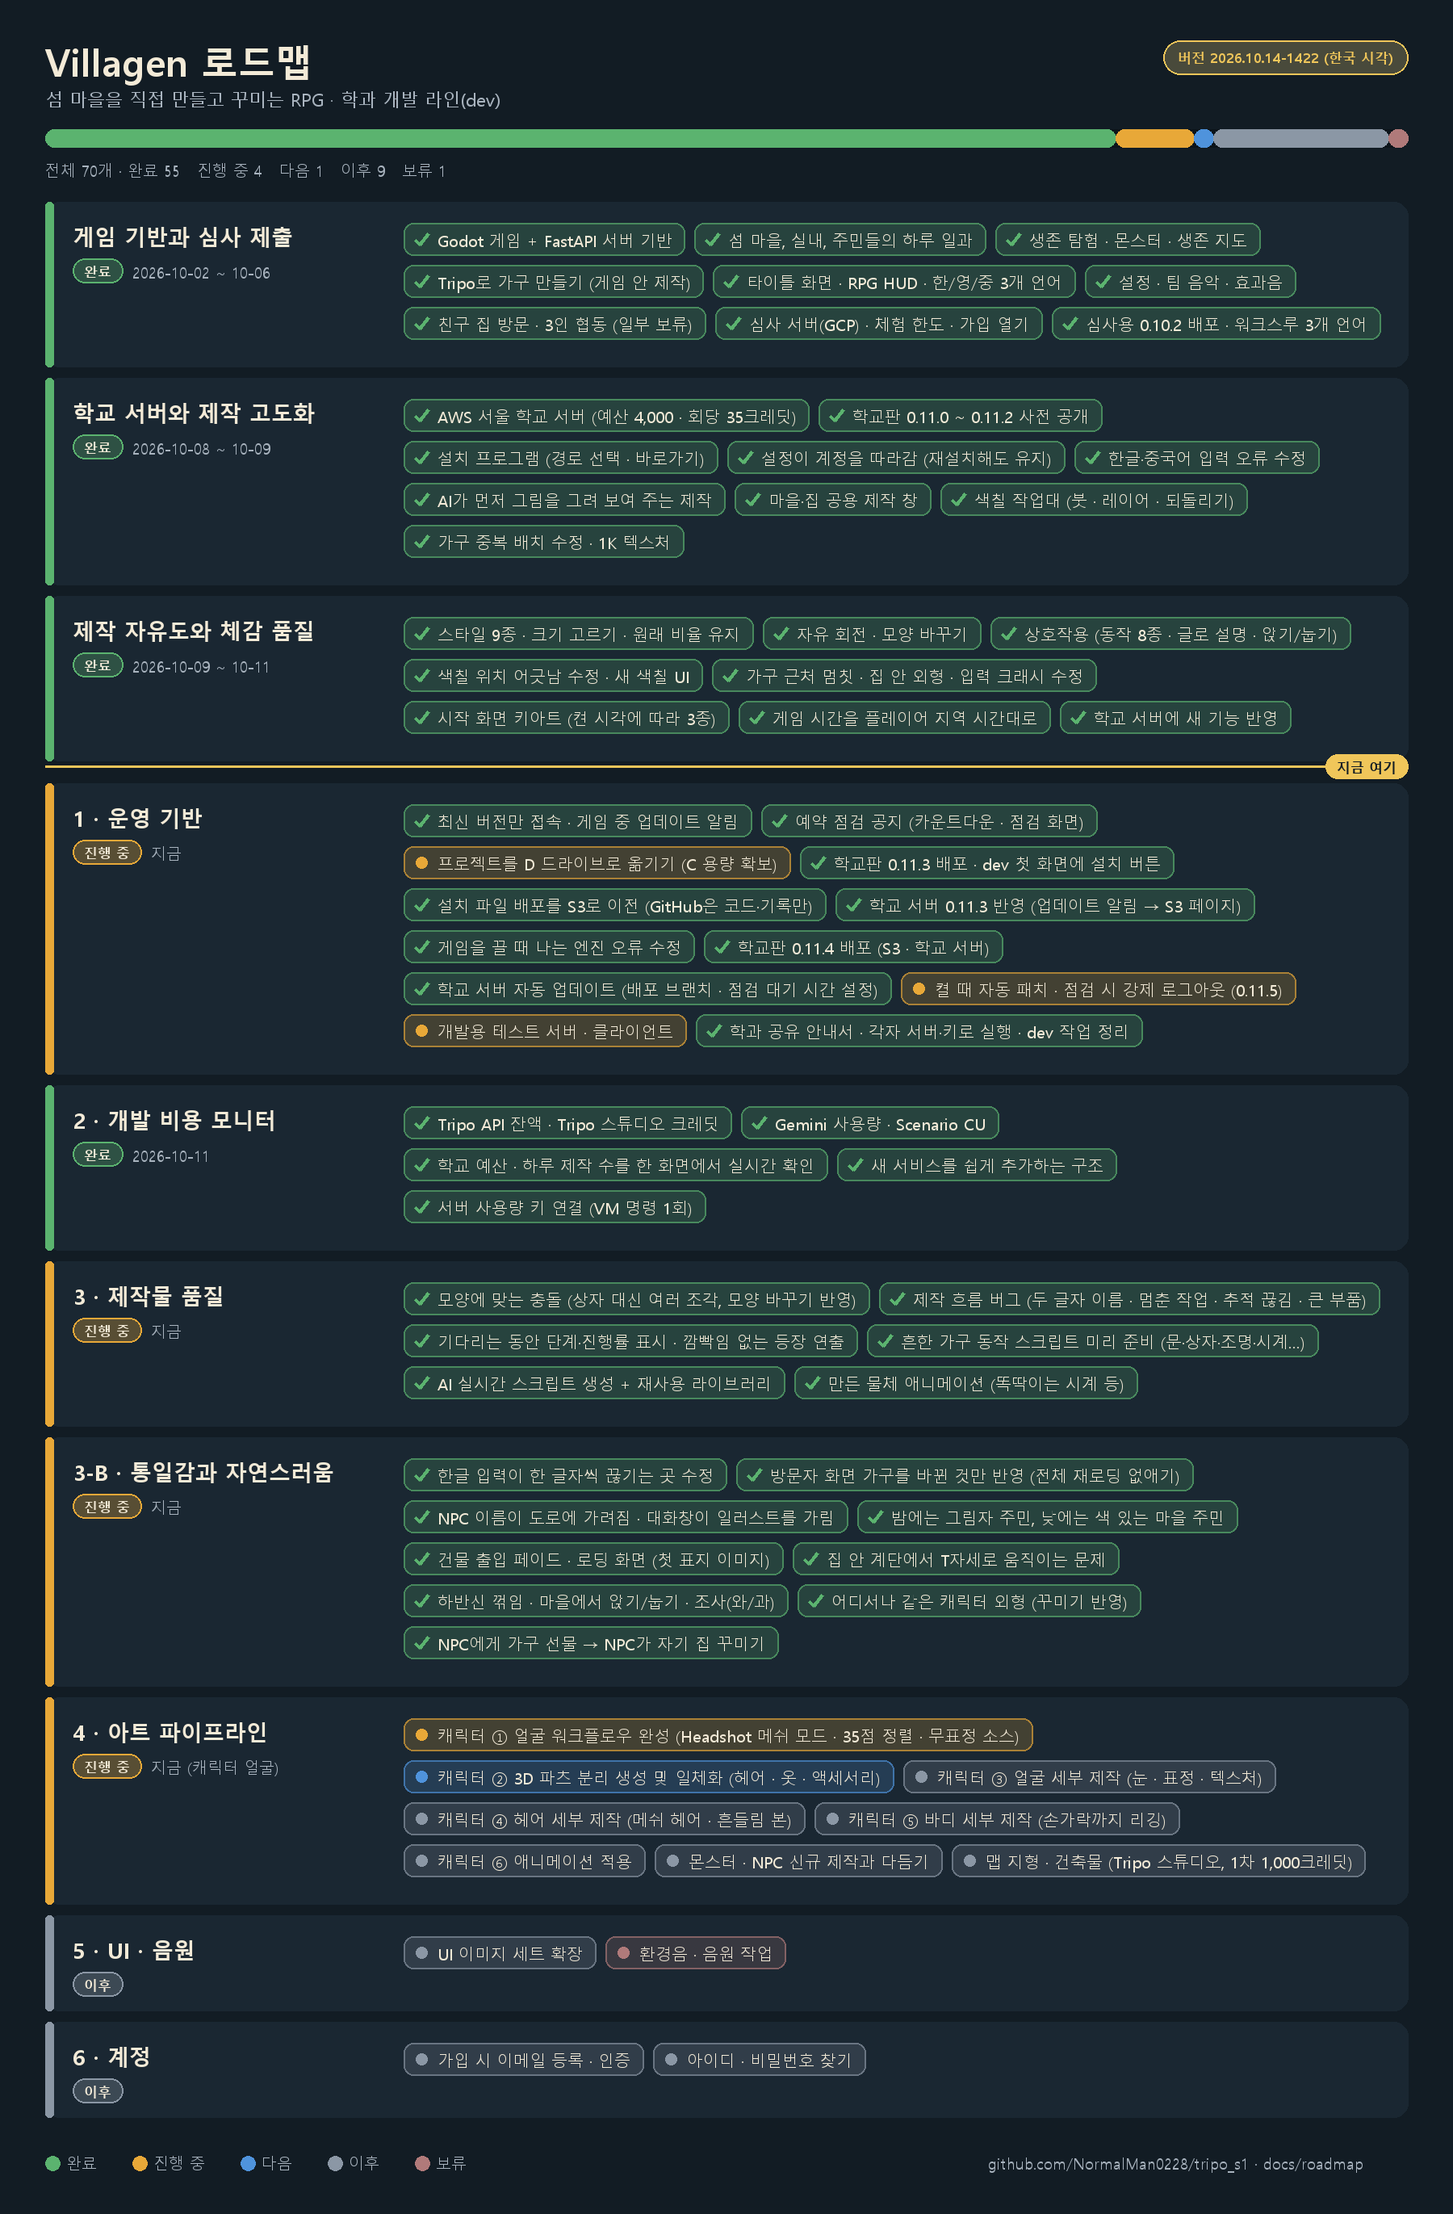
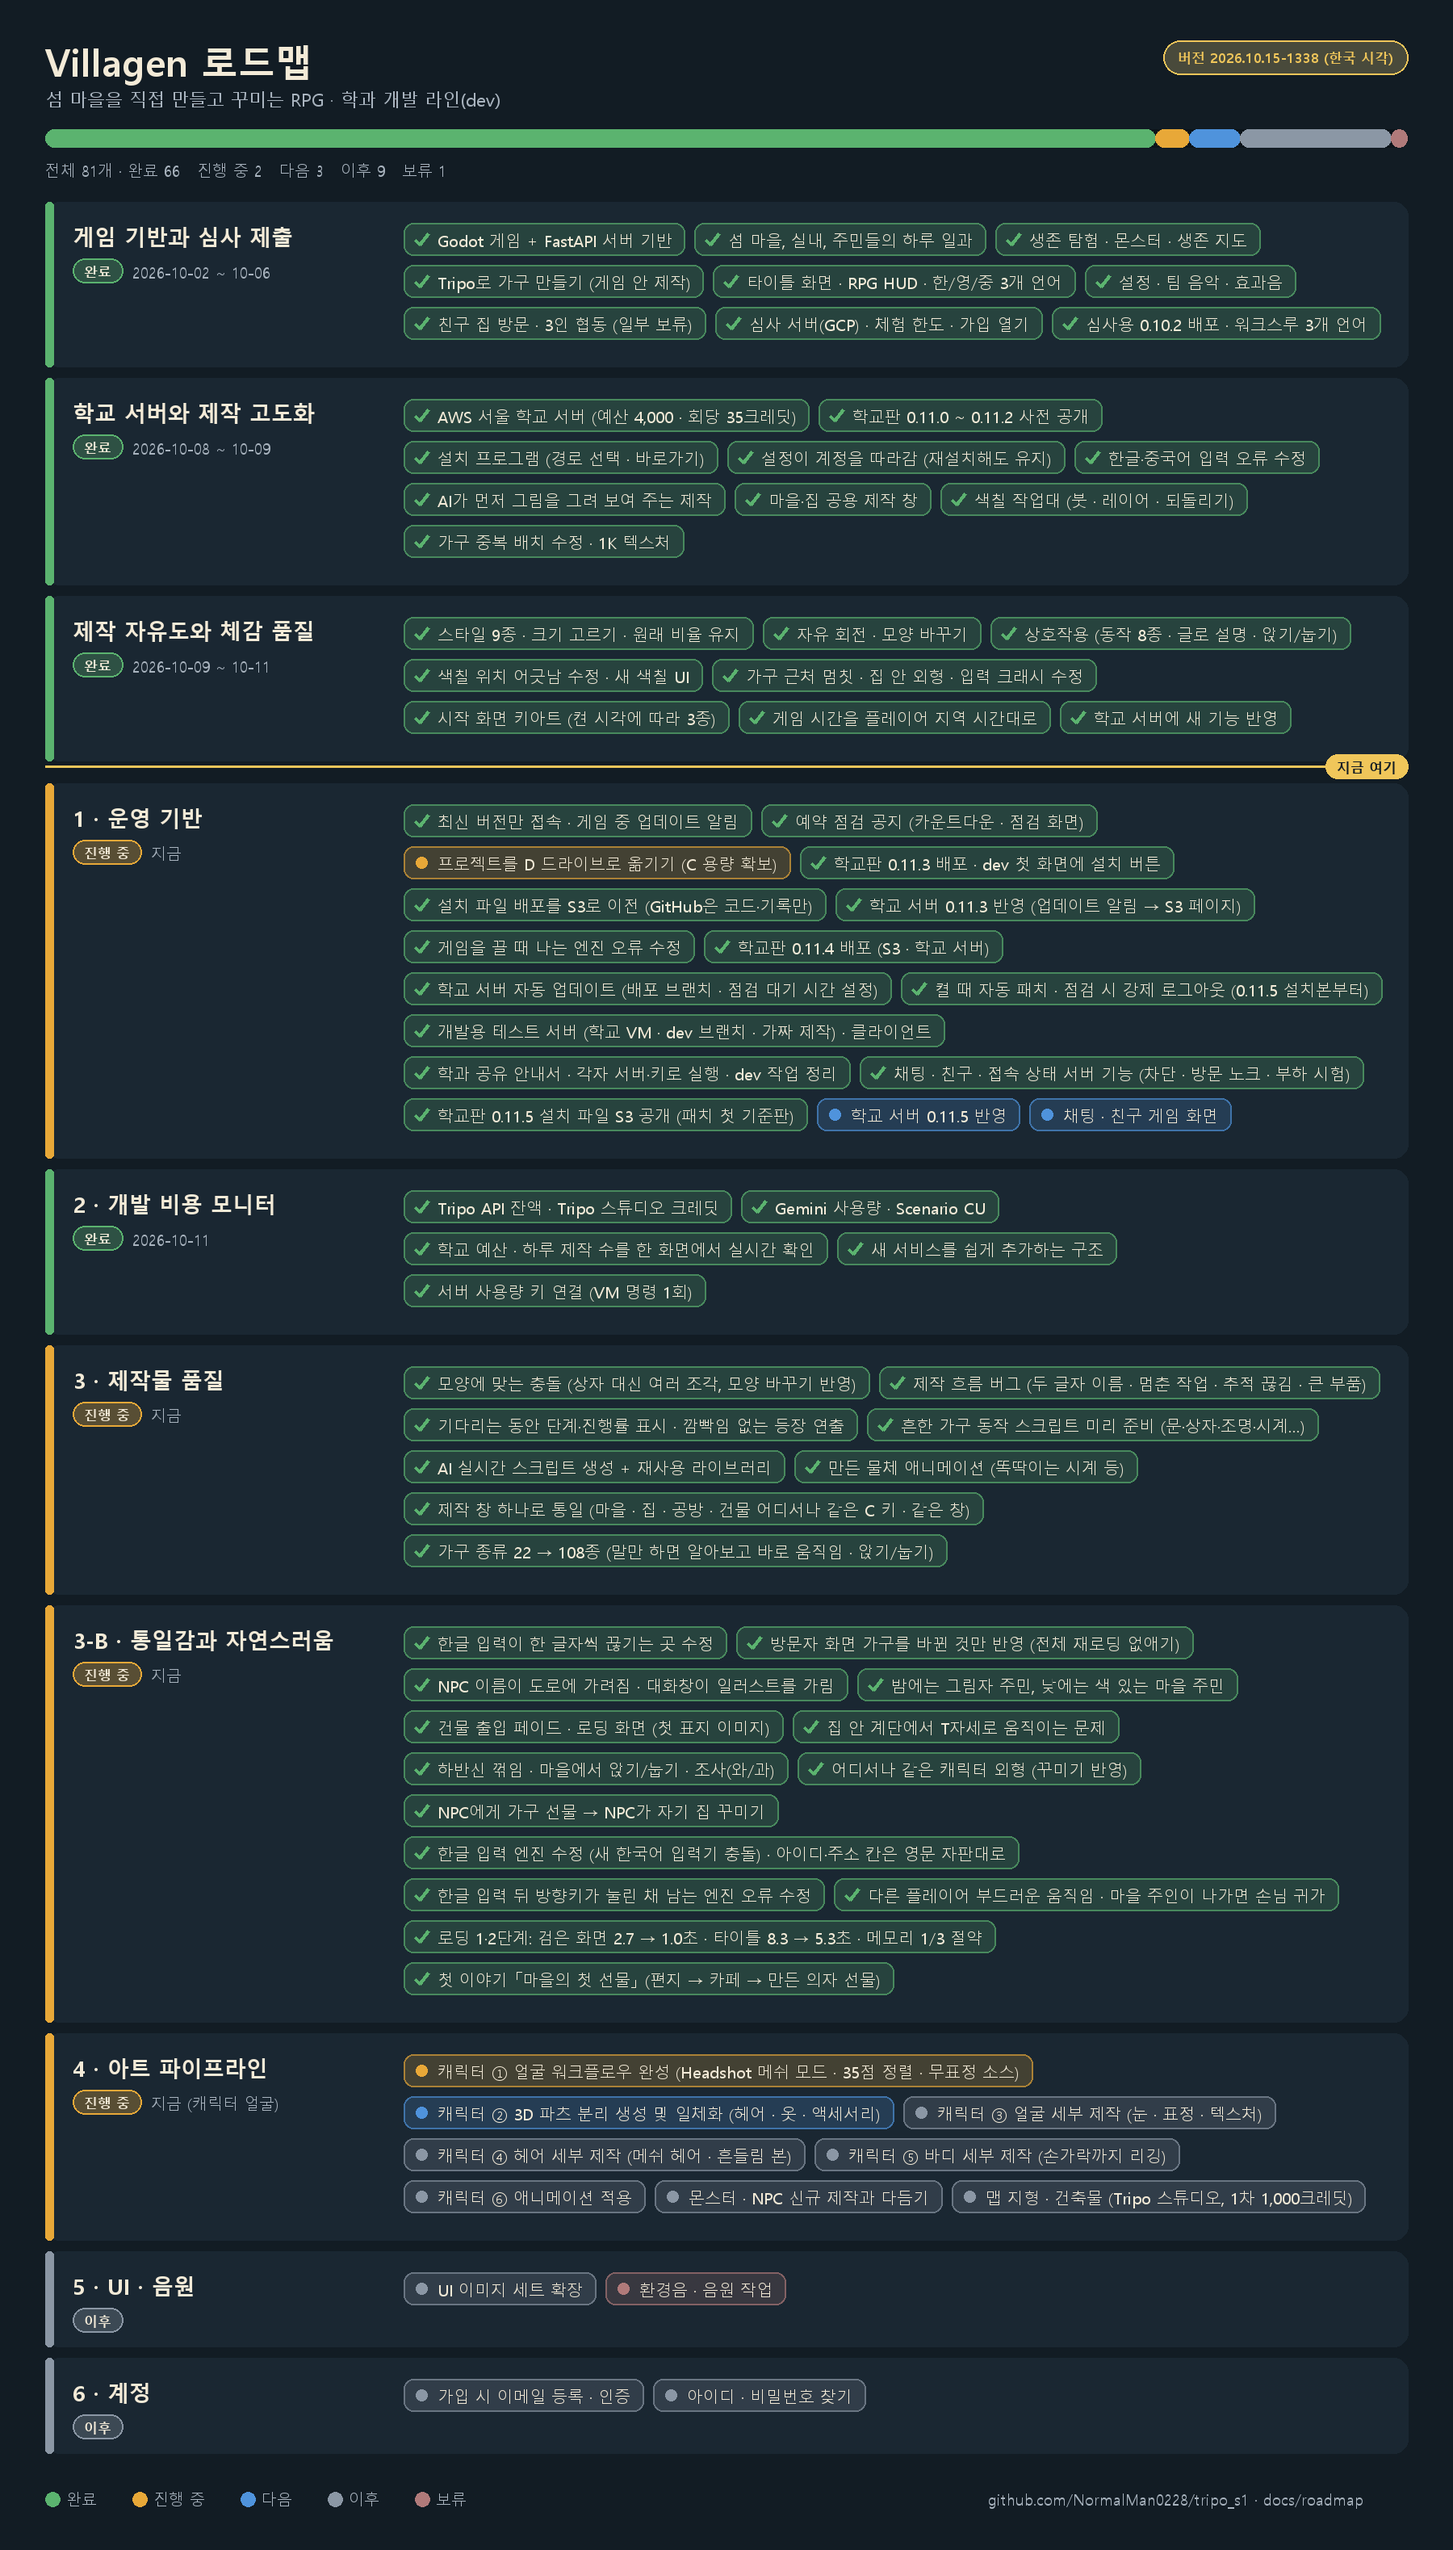
Roadmap: 0.11.5 shipped items (Korean IME and stuck-key engine fixes, smooth multiplayer, faster loading, one craft window, 108 types, opening story, patch updates, social server, staging)

diff --git a/docs/roadmap/ROADMAP_KO.md b/docs/roadmap/ROADMAP_KO.md
@@ -1,8 +1,8 @@
 # Villagen 로드맵
 
-**버전 2026.10.14-1422** (한국 시각) · 섬 마을을 직접 만들고 꾸미는 RPG · 학과 개발 라인(dev)
+**버전 2026.10.15-1338** (한국 시각) · 섬 마을을 직접 만들고 꾸미는 RPG · 학과 개발 라인(dev)
 
-> 그림으로 보기: [VISUAL_KO.md](VISUAL_KO.md) · 전체 70개 중 완료 55 · 진행 중 4 · 다음 1 · 이후 9 · 보류 1
+> 그림으로 보기: [VISUAL_KO.md](VISUAL_KO.md) · 전체 81개 중 완료 66 · 진행 중 2 · 다음 3 · 이후 9 · 보류 1
 
 - [학교 서버 운영 안내](../SCHOOL_SERVER_KO.txt)
 - [제작 품질표](../CRAFT_QUALITY_KO.md)
@@ -53,9 +53,13 @@
 - [x] 게임을 끌 때 나는 엔진 오류 수정 (10-14)
 - [x] 학교판 0.11.4 배포 (S3 · 학교 서버) (10-14)
 - [x] 학교 서버 자동 업데이트 (배포 브랜치 · 점검 대기 시간 설정) (10-14)
-- [ ] 켤 때 자동 패치 · 점검 시 강제 로그아웃 (0.11.5) · *진행 중*
-- [ ] 개발용 테스트 서버 · 클라이언트 · *진행 중*
+- [x] 켤 때 자동 패치 · 점검 시 강제 로그아웃 (0.11.5 설치본부터) (10-15)
+- [x] 개발용 테스트 서버 (학교 VM · dev 브랜치 · 가짜 제작) · 클라이언트 (10-14)
 - [x] 학과 공유 안내서 · 각자 서버·키로 실행 · dev 작업 정리 (10-14)
+- [x] 채팅 · 친구 · 접속 상태 서버 기능 (차단 · 방문 노크 · 부하 시험) (10-15)
+- [x] 학교판 0.11.5 설치 파일 S3 공개 (패치 첫 기준판) (10-15)
+- [ ] 학교 서버 0.11.5 반영 · *다음*
+- [ ] 채팅 · 친구 게임 화면 · *다음*
 
 ## 2 · 개발 비용 모니터  `완료` · 2026-10-11
 
@@ -73,6 +77,8 @@
 - [x] 흔한 가구 동작 스크립트 미리 준비 (문·상자·조명·시계…) (10-14)
 - [x] AI 실시간 스크립트 생성 + 재사용 라이브러리 (10-14)
 - [x] 만든 물체 애니메이션 (똑딱이는 시계 등) (10-14)
+- [x] 제작 창 하나로 통일 (마을 · 집 · 공방 · 건물 어디서나 같은 C 키 · 같은 창) (10-14)
+- [x] 가구 종류 22 → 108종 (말만 하면 알아보고 바로 움직임 · 앉기/눕기) (10-14)
 
 ## 3-B · 통일감과 자연스러움  `진행 중` · 지금
 
@@ -85,6 +91,11 @@
 - [x] 하반신 꺾임 · 마을에서 앉기/눕기 · 조사(와/과) (10-14)
 - [x] 어디서나 같은 캐릭터 외형 (꾸미기 반영) (10-14)
 - [x] NPC에게 가구 선물 → NPC가 자기 집 꾸미기 (10-14)
+- [x] 한글 입력 엔진 수정 (새 한국어 입력기 충돌) · 아이디·주소 칸은 영문 자판대로 (10-15)
+- [x] 한글 입력 뒤 방향키가 눌린 채 남는 엔진 오류 수정 (10-15)
+- [x] 다른 플레이어 부드러운 움직임 · 마을 주인이 나가면 손님 귀가 (10-14)
+- [x] 로딩 1·2단계: 검은 화면 2.7 → 1.0초 · 타이틀 8.3 → 5.3초 · 메모리 1/3 절약 (10-14)
+- [x] 첫 이야기 「마을의 첫 선물」 (편지 → 카페 → 만든 의자 선물) (10-15)
 
 ## 4 · 아트 파이프라인  `진행 중` · 지금 (캐릭터 얼굴)
 
@@ -111,6 +122,7 @@
 
 | 버전 (한국 시각) | 바뀐 점 |
 |---|---|
+| 2026.10.15-1338 | 0.11.5 빌드: 한글 입력·눌린 키 엔진 수정, 부드러운 멀티, 로딩 단축, 제작 창 통일, 108종, 첫 이야기, 자동 패치 시작, 채팅·친구 서버, 개발 서버 |
 | 2026.10.14-1422 | 학과 공유 안내서와 dev 작업 정리 문서 추가 |
 | 2026.10.14-1422 | 0.11.4 학교 배포 완료, 서버 자동 업데이트 켬, 패치·개발 서버 작업 시작 |
 | 2026.10.14-1343 | 학교판 0.11.4 빌드·S3 업로드 완료, 학교 서버 업데이트 대기 |

diff --git a/docs/roadmap/VISUAL_KO.md b/docs/roadmap/VISUAL_KO.md
@@ -1,7 +1,7 @@
 # Villagen 로드맵 (그림)
 
-**버전 2026.10.14-1422** (한국 시각) · 글로 보기: [ROADMAP_KO.md](ROADMAP_KO.md)
+**버전 2026.10.15-1338** (한국 시각) · 글로 보기: [ROADMAP_KO.md](ROADMAP_KO.md)
 
-![Villagen 로드맵 2026.10.14-1422](roadmap.png)
+![Villagen 로드맵 2026.10.15-1338](roadmap.png)
 
 초록 완료 · 주황 진행 중 · 파랑 다음 · 회색 이후 · 갈색 보류

diff --git a/docs/roadmap/README.md b/docs/roadmap/README.md
@@ -1,8 +1,8 @@
 # Villagen 로드맵
 
-**버전 2026.10.14-1422** (한국 시각)
+**버전 2026.10.15-1338** (한국 시각)
 
 - [그림으로 보기](VISUAL_KO.md)
-- [글로 보기](ROADMAP_KO.md) — 완료 55 · 진행 중 4 · 다음 1 · 이후 9
+- [글로 보기](ROADMAP_KO.md) — 완료 66 · 진행 중 2 · 다음 3 · 이후 9
 
 ![로드맵](roadmap.png)
